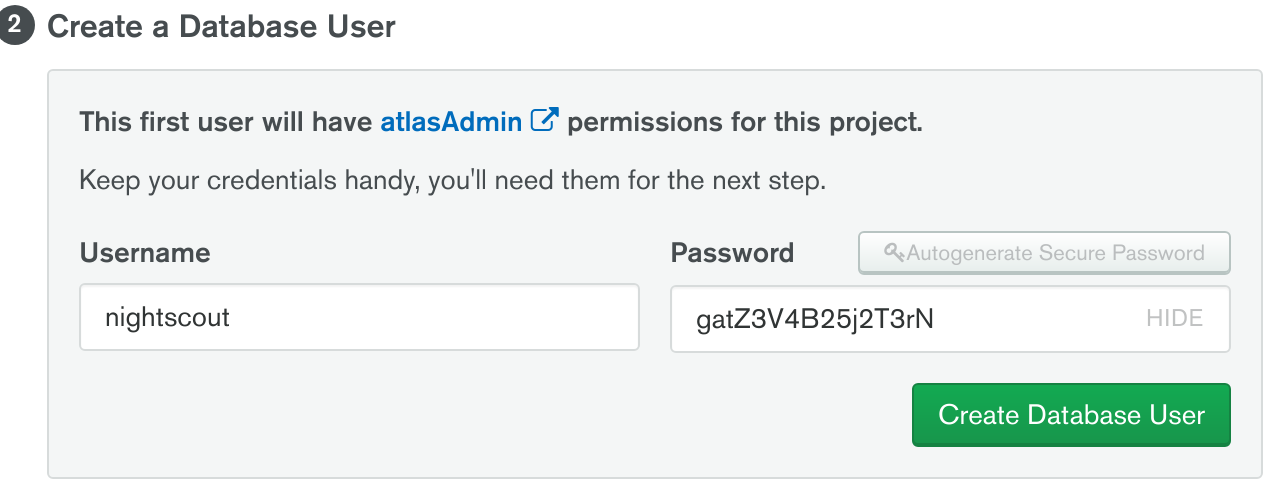
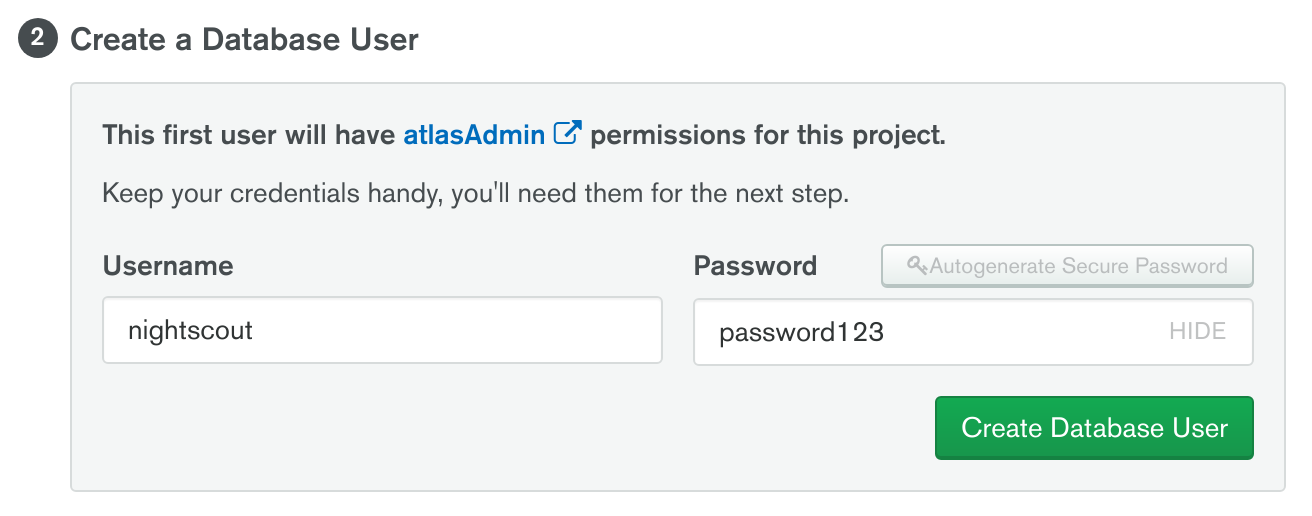
Deployed 8e59958 with MkDocs version: 0.16.3

diff --git a/nightscout/new_user/index.html b/nightscout/new_user/index.html
@@ -731,7 +731,11 @@
 
 <p>Now, click on "Choose a connection method" at the bottom of the form. Then, click on "Connect your application". Leave the default Driver and version and copy the displayed string. You can copy the string by clicking on the "Copy" button. This is is the last piece of information that we need from MongoDB Atlas.</p>
 <p>Before doing anything else, you need to replace some information in the string and note it down.</p>
-<p>For example, my string was <code>mongodb+srv://nightscout:&lt;password&gt;@nightscout.ztlke.mongodb.net/&lt;dbname&gt;?retryWrites=true&amp;w=majority</code>. I need to change <code>&lt;password&gt;</code> to my password and <code>&lt;dbname&gt;</code> to anything I like. The final result would be <code>mongodb+srv://nightscout:gatZ3V4B25j2T3rN@nightscout.ztlke.mongodb.net/nightscout?retryWrites=true&amp;w=majority</code>. This string contains all the information that Nightscout needs to connect to your newly connected cluster. Note it down and it will be required during the Heroku setup. This will be known as your <strong>MONGODB_URI</strong>.</p>
+<p align="center">
+<img src="../img/atlas10.png" width="450">
+</p>
+
+<p>For example, my string was <code>mongodb+srv://nightscout:&lt;password&gt;@nightscout.ztlke.mongodb.net/&lt;dbname&gt;?retryWrites=true&amp;w=majority</code>. I need to change <code>&lt;password&gt;</code> to my password and <code>&lt;dbname&gt;</code> to anything I like. The final result would be <code>mongodb+srv://nightscout:password123@nightscout.ztlke.mongodb.net/nightscout?retryWrites=true&amp;w=majority</code>. This string contains all the information that Nightscout needs to connect to your newly connected cluster. Note it down and it will be required during the Heroku setup. This will be known as your <strong>MONGODB_URI</strong>.</p>
 <h2 id="step-2-heroku-account">Step 2: Heroku Account<a class="headerlink" href="#step-2-heroku-account" title="Permanent link">⌁</a></h2>
 <p>Create an account at <a href="https://signup.heroku.com/login" target="_blank">Heroku's signup page</a>. </p>
 <p>Enter your name, email address, role ("Hobbyist" is fine) and choose "Node.js" as the Primary Development Language.  When you get all those entered, confirm that you are not a robot and click the blue "Create Free Account" button</p>
